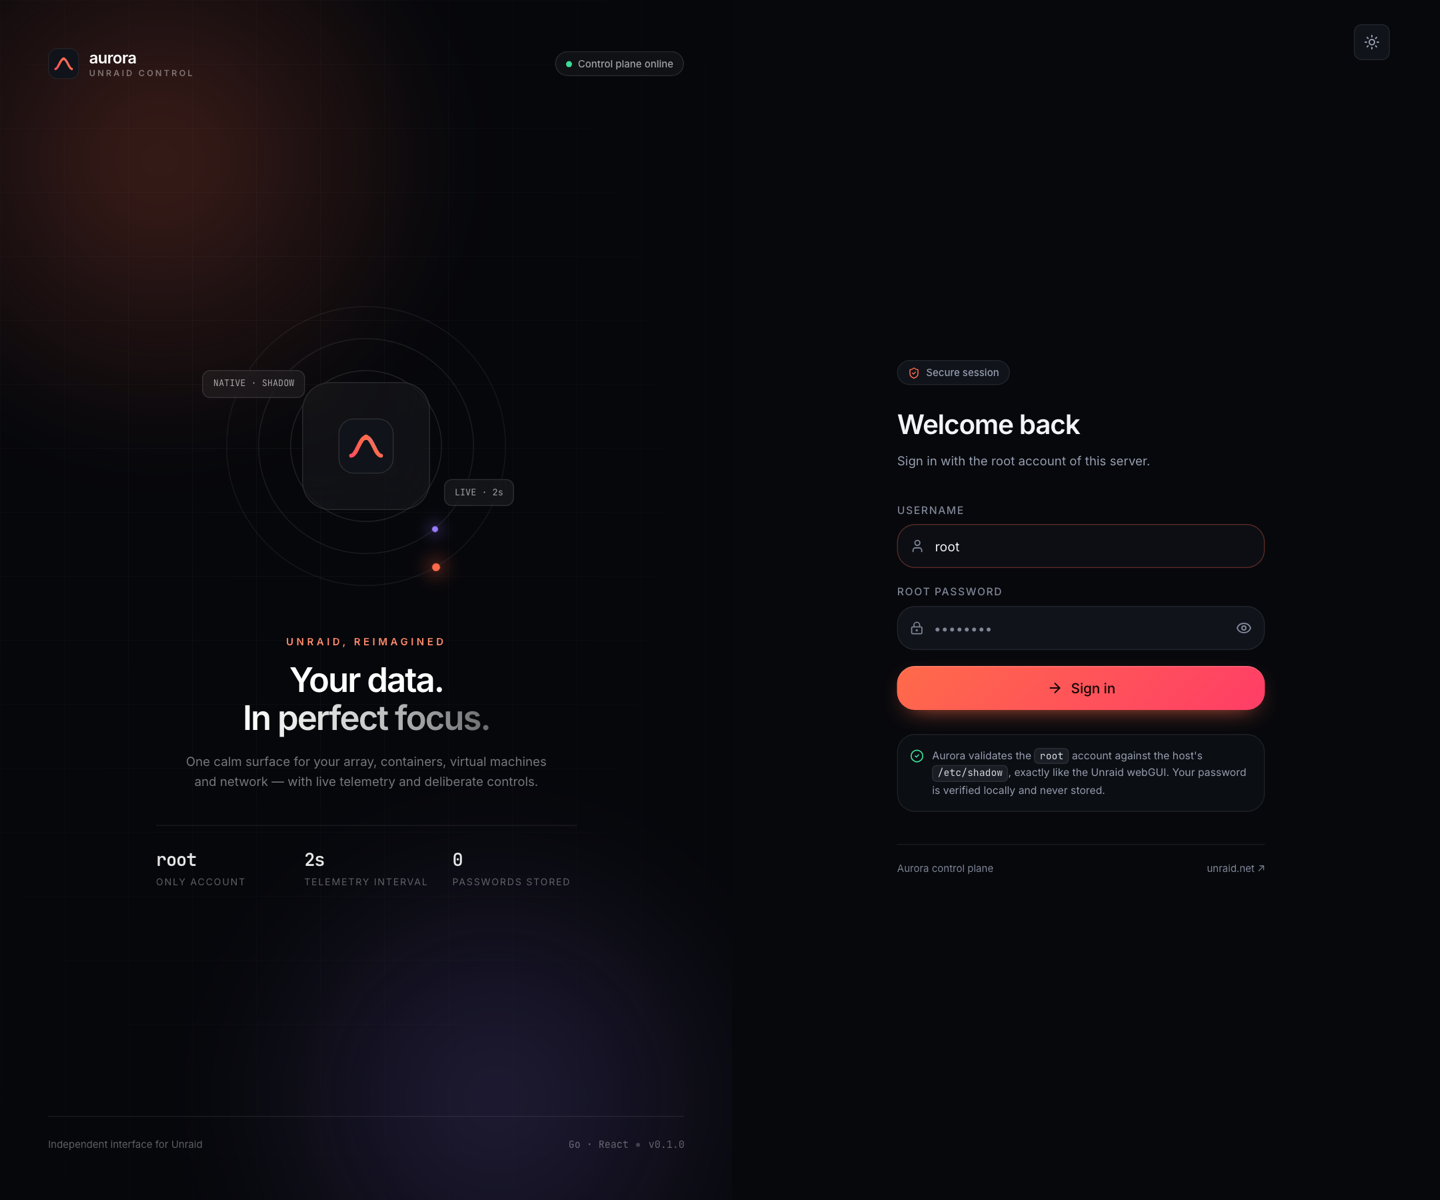
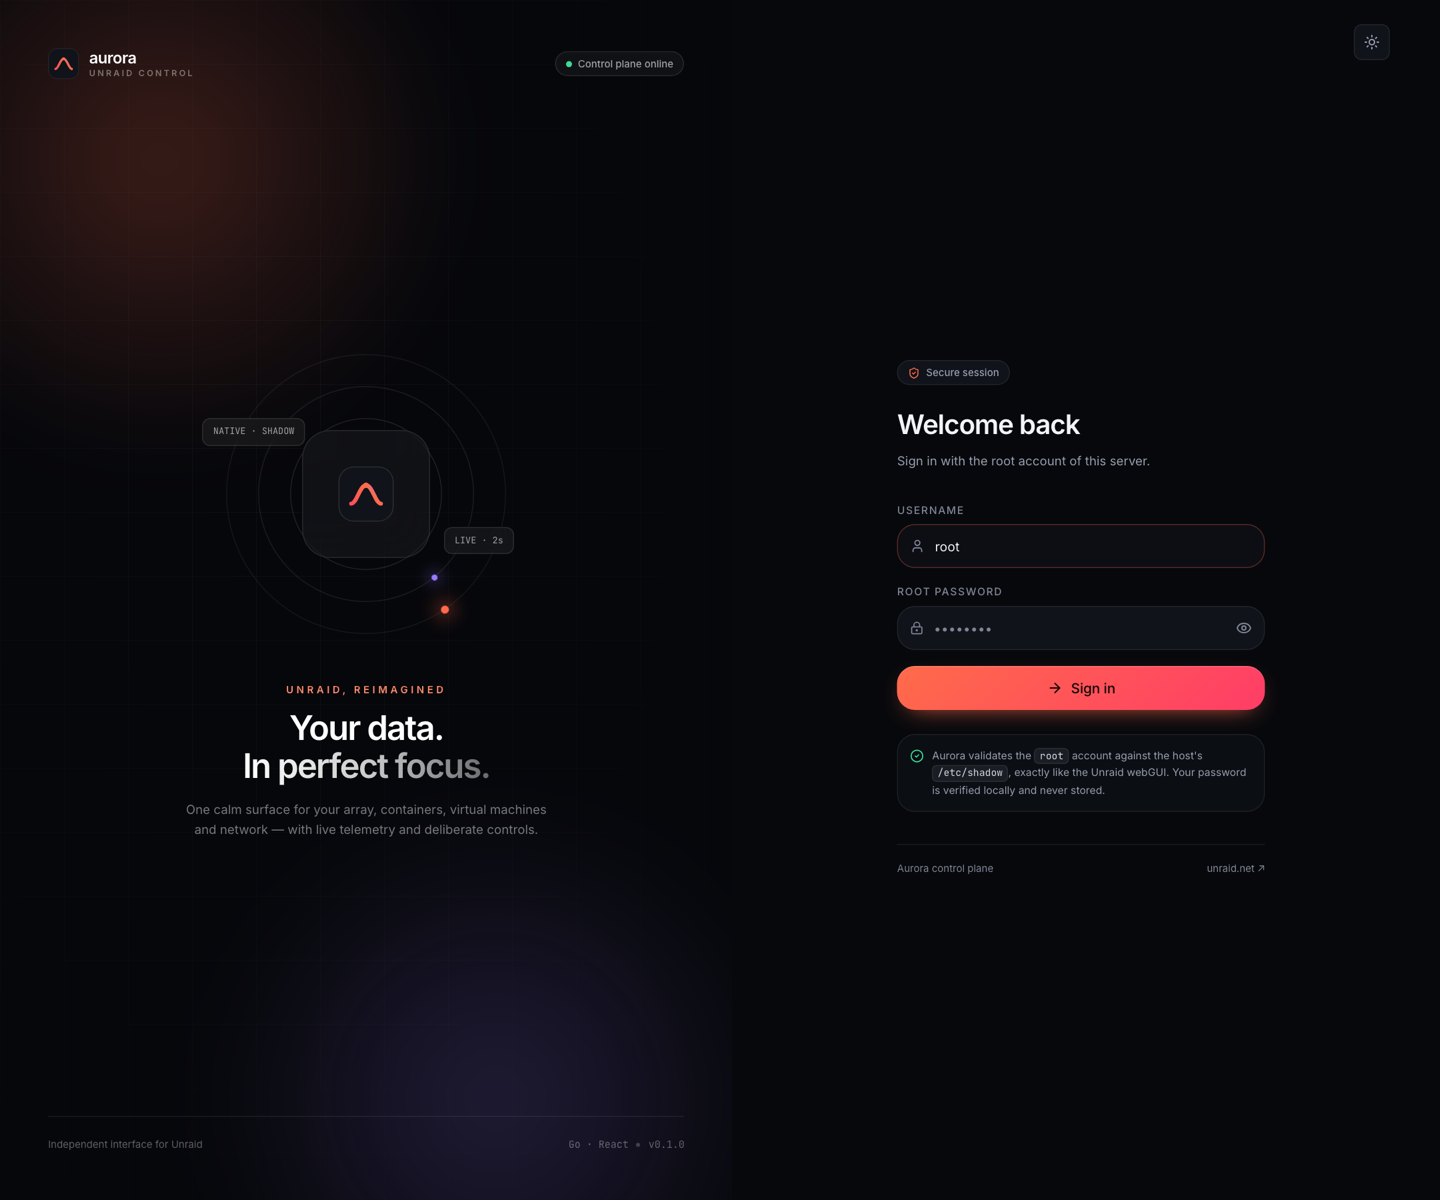
style: simplify the login panel

diff --git a/frontend/src/pages/Login.tsx b/frontend/src/pages/Login.tsx
@@ -112,18 +112,6 @@ export function LoginPage() {
               One calm surface for your array, containers, virtual machines and network — with live telemetry
               and deliberate controls.
             </p>
-            <div className="mt-8 grid grid-cols-3 gap-6 border-t border-white/[0.07] pt-5 text-left">
-              {[
-                { value: "root", label: "only account" },
-                { value: "2s", label: "telemetry interval" },
-                { value: "0", label: "passwords stored" },
-              ].map((stat) => (
-                <div key={stat.label}>
-                  <p className="num text-[18px] font-semibold text-white/90">{stat.value}</p>
-                  <p className="mt-0.5 text-[9.5px] uppercase tracking-[0.12em] text-white/35">{stat.label}</p>
-                </div>
-              ))}
-            </div>
           </div>
         </div>
 
